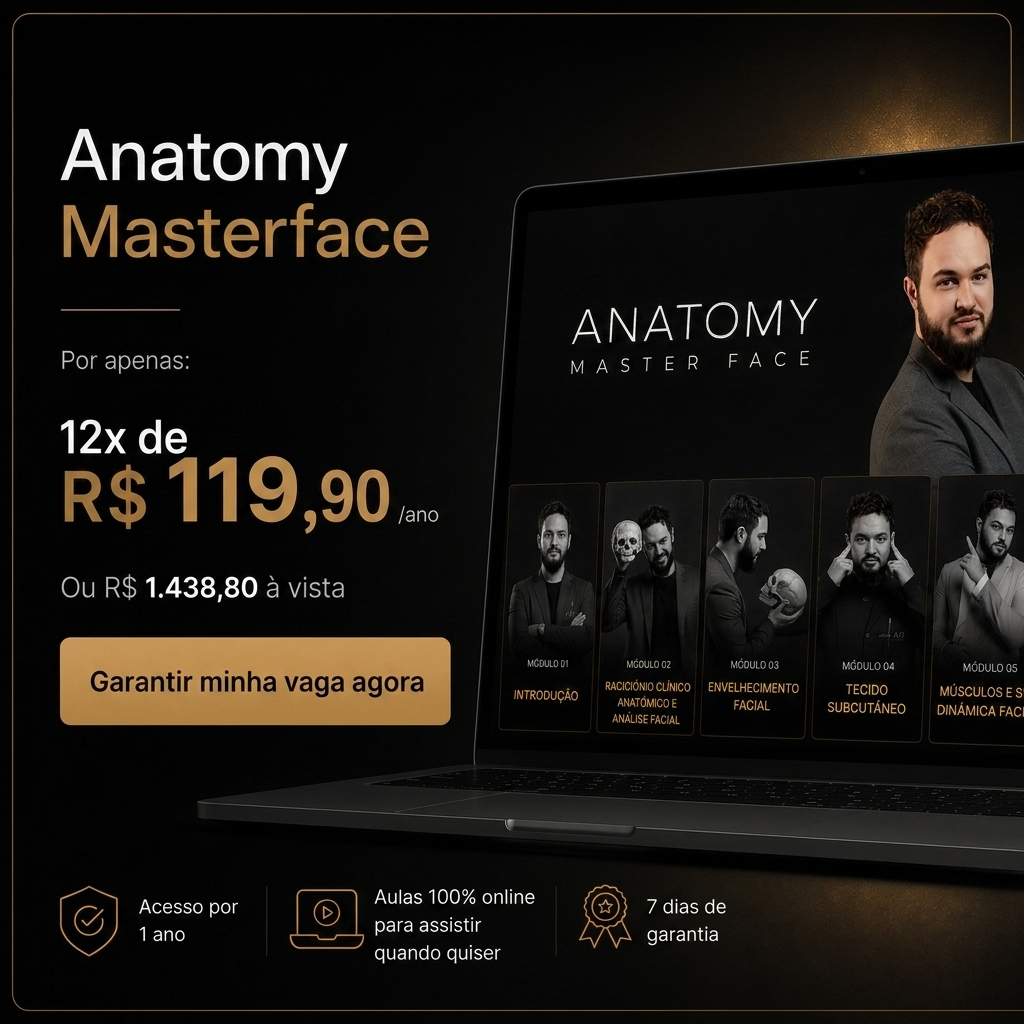
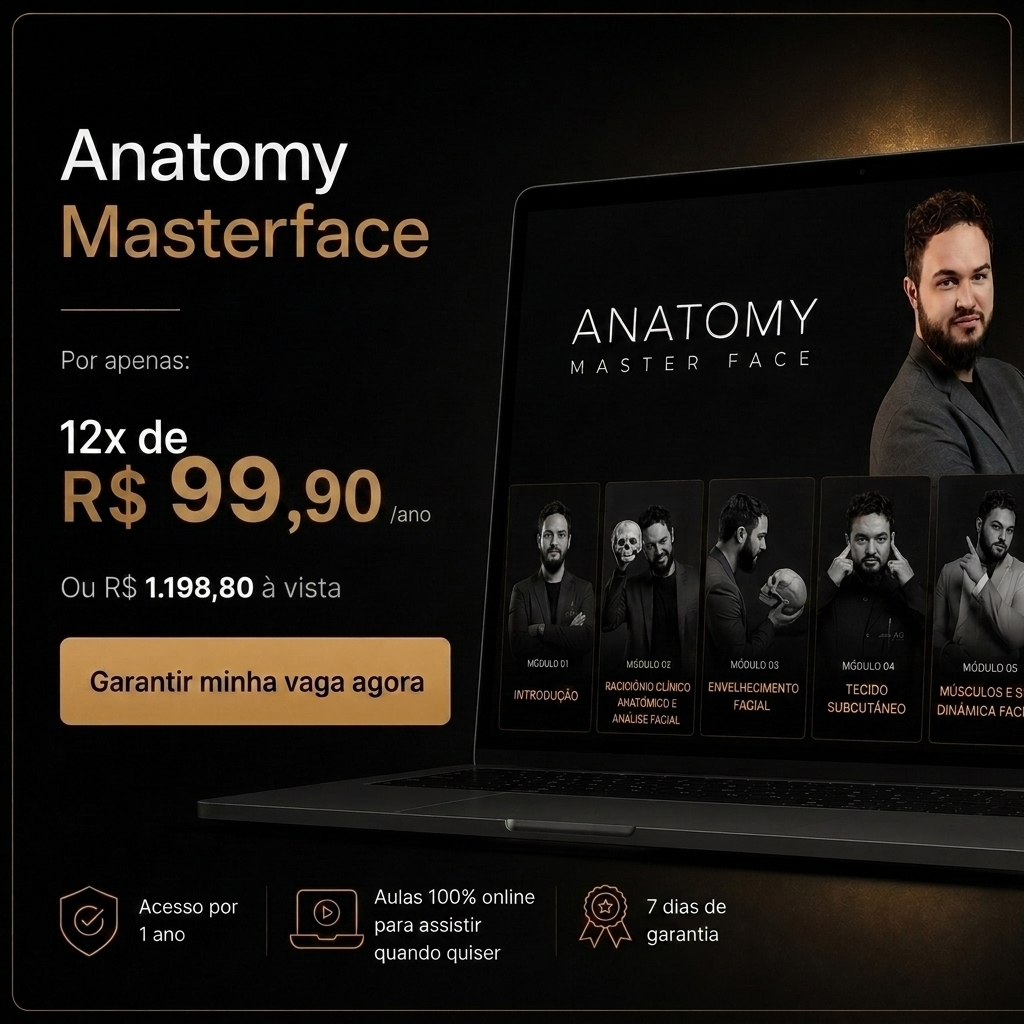
Atualiza preços para 12x 99,90 e R$ 1.198,80 à vista, incluindo imagem de mockup

Changed region(s): [[0.1562, 0.4375, 0.4375, 0.5312], [0.1562, 0.5625, 0.3438, 0.5938], [0.5938, 0.6562, 0.625, 0.6875]]

diff --git a/vendas.html b/vendas.html
@@ -263,8 +263,8 @@
                     <p class="text-offwhite/80 text-lg mb-8 font-light">Garanta sua vaga no Anatomy Master Face com condição especial.</p>
 
                     <div class="space-y-1 mb-6">
-                        <p class="text-[#BE8C56] font-bold text-4xl sm:text-5xl mb-2">12x de R$ 119,90</p>
-                        <p class="text-sm text-offwhite/80 font-light">ou R$ 1.438,80 à vista</p>
+                        <p class="text-[#BE8C56] font-bold text-4xl sm:text-5xl mb-2">12x de R$ 99,90</p>
+                        <p class="text-sm text-offwhite/80 font-light">ou R$ 1.198,80 à vista</p>
                     </div>
 
                     <a href="https://hotm.io/vendasanatomy" class="w-full bg-[#BE8C56] hover:bg-[#a67a4a] text-white font-bold uppercase tracking-wider py-4 rounded-full transition-all duration-300 shadow-[0_0_15px_rgba(190,140,86,0.3)] hover:shadow-[0_0_25px_rgba(190,140,86,0.5)] text-[15px] sm:text-base flex items-center justify-center text-center">
@@ -698,10 +698,10 @@
                         
                         <div class="flex items-baseline justify-center md:justify-start text-[#BE8C56] mb-2 font-bold">
                             <span class="text-3xl lg:text-4xl mr-2">12x</span>
-                            <span class="text-6xl lg:text-7xl">119</span>
+                            <span class="text-6xl lg:text-7xl">99</span>
                             <span class="text-3xl lg:text-4xl">,90</span>
                         </div>
-                        <p class="text-gray-400 text-sm mb-8 font-medium">ou R$ 1.438,80 à vista</p>
+                        <p class="text-gray-400 text-sm mb-8 font-medium">ou R$ 1.198,80 à vista</p>
 
                         <a href="https://hotm.io/vendasanatomy" class="w-full inline-flex items-center justify-center bg-[#BE8C56] hover:bg-[#a67a4a] text-white font-bold uppercase tracking-wider py-5 px-8 rounded-full transition-all duration-300 shadow-[0_0_15px_rgba(190,140,86,0.3)] hover:shadow-[0_0_25px_rgba(190,140,86,0.5)] text-lg lg:text-xl text-center">
                             Quero garantir minha condição especial